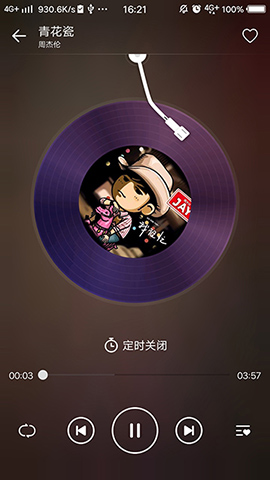
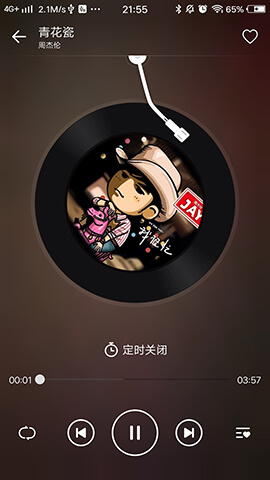
music module jukeBox style edit

diff --git a/music-player-lib/src/main/java/com/music/player/lib/constants/MusicConstants.java b/music-player-lib/src/main/java/com/music/player/lib/constants/MusicConstants.java
@@ -46,26 +46,25 @@ public interface MusicConstants {
     float SCALE_NEEDLE_MARGIN_TOP = (float) (46.0 / BASE_SCREEN_WIDTH);
 
     //唱盘比例
-    float SCALE_DISC_SIZE = (float) (810.0 / BASE_SCREEN_WIDTH);
+    float SCALE_DISC_SIZE = (float) (824.0 / BASE_SCREEN_WIDTH);
     //唱盘背景比例
-    float SCALE_DISC_BG_SIZE = (float) (836.0 / BASE_SCREEN_WIDTH);
+    float SCALE_DISC_BG_SIZE = (float) (834.0 / BASE_SCREEN_WIDTH);
     //唱盘距离顶部边距
-    float SCALE_DISC_MARGIN_TOP = (float) (186 / BASE_SCREEN_WIDTH);
+    float SCALE_DISC_MARGIN_TOP = (float) (178.0 / BASE_SCREEN_WIDTH);
     //唱盘距离顶部边距
-    float SCALE_DISC_BG_MARGIN_TOP = (float) (173 / BASE_SCREEN_WIDTH);
+    float SCALE_DISC_BG_MARGIN_TOP = (float) (173.0 / BASE_SCREEN_WIDTH);
     //专辑图片比例
-    float SCALE_MUSIC_PIC_SIZE = (float) (530.0 / BASE_SCREEN_WIDTH);
+    float SCALE_MUSIC_PIC_SIZE = (float) (544.0 / BASE_SCREEN_WIDTH);
 
     //锁屏唱盘比例
     float SCALE_DISC_LOCK_SIZE = (float) (680.0 / BASE_SCREEN_WIDTH);
-
     //锁屏专辑图片比例
-    float SCALE_MUSIC_PIC_LOCK_SIZE = (float) (432.0 / BASE_SCREEN_WIDTH);
+    float SCALE_MUSIC_PIC_LOCK_SIZE = (float) (466.02 / BASE_SCREEN_WIDTH);
 
     //迷你唱盘比例
-    float SCALE_DISC_MINI_SIZE = (float) (160 / BASE_SCREEN_WIDTH);
+    float SCALE_DISC_MINI_SIZE = (float) (160.0 / BASE_SCREEN_WIDTH);
     //迷你专辑图片比例
-    float SCALE_MUSIC_PIC_MINE_SIZE = (float) (63.0 / BASE_SCREEN_WIDTH);
+    float SCALE_MUSIC_PIC_MINE_SIZE = (float) (96.0 / BASE_SCREEN_WIDTH);
     //胶盘旋转一圈耗时时长，单位秒
     int BOX_REVOLVE_MINUTE = 16;
     //迷你胶盘旋转一圈耗时时长，单位秒

diff --git a/app/src/main/java/com/android/imusic/music/activity/MusicPlayerActivity.java b/app/src/main/java/com/android/imusic/music/activity/MusicPlayerActivity.java
@@ -410,7 +410,6 @@ public class MusicPlayerActivity extends AppCompatActivity implements
      */
     @Override
     public void onJukeBoxOffsetObject(BaseAudioInfo audioInfo) {
-        Logger.d(TAG,"onJukeBoxOffsetObject:MUSIC_ID："+audioInfo.getAudioId());
         mViewTitle.setText(audioInfo.getAudioName());
         mSubTitle.setText(audioInfo.getNickname());
     }
@@ -423,8 +422,6 @@ public class MusicPlayerActivity extends AppCompatActivity implements
      */
     @Override
     public void onJukeBoxObjectChanged(final int position, BaseAudioInfo audioInfo, boolean isEchoDisplay) {
-        Logger.d(TAG,"onJukeBoxObjectChanged-->POSITION:"+position+",MUSIC_INFO:"
-                +audioInfo.getAudioId()+",isEchoDisplay:"+isEchoDisplay);
         //清空唱片机播放器
         if(null!=audioInfo){
             mViewTitle.setText(audioInfo.getAudioName());

diff --git a/app/src/main/java/com/android/imusic/music/activity/MusicLockActivity.java b/app/src/main/java/com/android/imusic/music/activity/MusicLockActivity.java
@@ -165,7 +165,7 @@ public class MusicLockActivity extends AppCompatActivity implements MusicPlayerE
             mMusicAnchor.setText(audioInfo.getNickname());
             MusicUtils.getInstance().setMusicComposeFront(MusicLockActivity.this,mMusicCover,
                     MusicUtils.getInstance().getMusicFrontPath(audioInfo),MusicConstants.SCALE_DISC_LOCK_SIZE
-                    ,MusicConstants.SCALE_MUSIC_PIC_LOCK_SIZE,R.drawable.ic_music_lock_cover_plate,R.drawable.ic_music_juke_default_cover);
+                    ,MusicConstants.SCALE_MUSIC_PIC_LOCK_SIZE,R.drawable.ic_music_disc,R.drawable.ic_music_juke_default_cover);
         }
     }
 

diff --git a/app/src/main/java/com/android/imusic/MainActivity.java b/app/src/main/java/com/android/imusic/MainActivity.java
@@ -10,7 +10,6 @@ import android.view.KeyEvent;
 import android.view.View;
 import android.widget.TextView;
 import android.widget.Toast;
-
 import com.android.imusic.base.BaseActivity;
 import com.android.imusic.base.BasePresenter;
 import com.android.imusic.music.activity.MusicLockActivity;
@@ -31,7 +30,6 @@ import com.music.player.lib.util.Logger;
 import com.music.player.lib.util.MusicUtils;
 import com.video.player.lib.manager.VideoPlayerManager;
 import com.video.player.lib.manager.VideoWindowManager;
-
 import java.util.ArrayList;
 import java.util.List;
 

diff --git a/music-player-lib/src/main/java/com/music/player/lib/view/MusicJukeBoxView.java b/music-player-lib/src/main/java/com/music/player/lib/view/MusicJukeBoxView.java
@@ -36,7 +36,8 @@ import java.util.Map;
  * TinyHung@Outlook.com
  * 2019/3/6
  * BIG JukeBox
- * 示例唱片机，负责UI的展示和播放、暂停系列通话，次组件不直接参与下一首、上一首的业务逻辑，将此类事件一律抛出至持有此组件的活动
+ * 示例唱片机，负责UI的展示和播放、暂停系列通话，次组件不直接参与下一首、上一首的业务逻辑
+ * 将此类事件一律抛出至持有此组件的活动
  */
 
 public class MusicJukeBoxView extends RelativeLayout{
